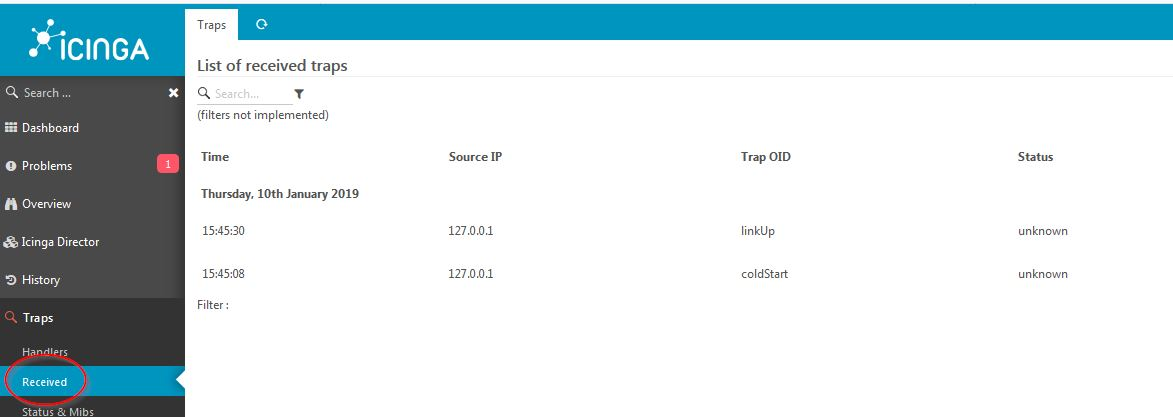
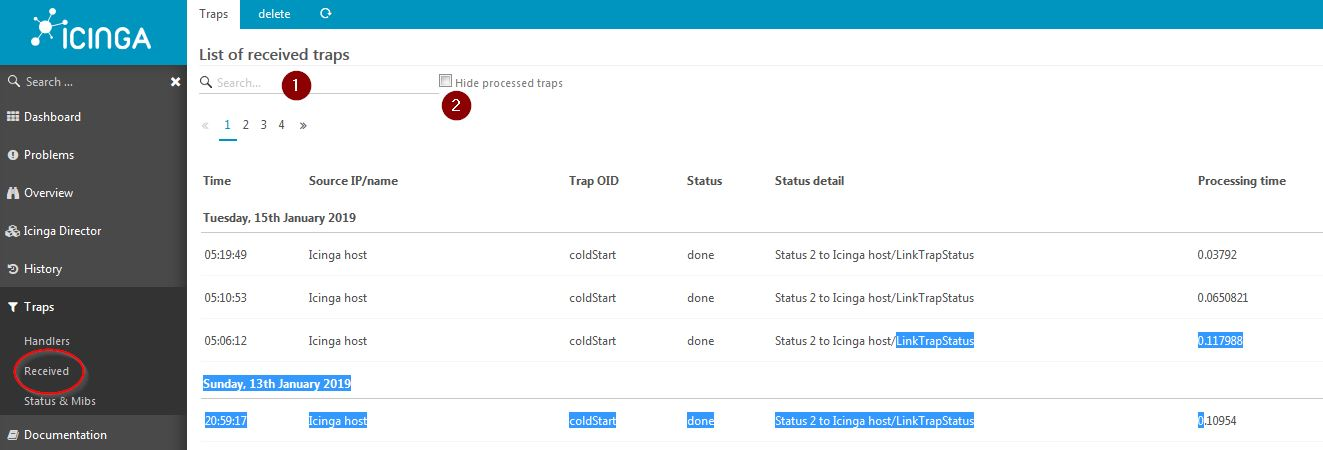
Doc update

diff --git a/docs/02-traps.md b/docs/02-traps.md
@@ -6,10 +6,13 @@ NOTE NOTE NOTE NOTE : PROJECT UNDER DEV : SOME SCREEN CAPTURES CAN CHANGE A LOT 
 A little about traps
 ---------------
 
-TODO.
+Have a look here for ful info : http://www.net-snmp.org/wiki/
 
-Have a look here : http://www.net-snmp.org/wiki/
+Shortly : a trap is send by an equipement to a trap server (here the icinga host), it contains : 
 
+* Authentication : by a community - a word - in v1 & v2, or user/password in v3
+* The trap OID : an OID (ex : .1.3.6.1.2.1.1) which defines the trap
+* Trap objects : a list of OID with their values, so the system will provide additionnal information (ex : interface name).
 
 Sending traps for testing
 ---------------
@@ -19,9 +22,12 @@ In the bin directory you have 3 bash files test_trap_v(1|2|3).sh which will send
 Looking at traps received
 ---------------
 
-Go to traps -> received to have a list of received traps
+Go to Traps -> received (or just Traps) to have a list of received traps
 
 ![trap-1](img/Trap-rule-1.jpg)
+
+1) filter the display : it will show only traps which includes what you typed (will search in IP/OID/status etc..)
+2) Click here to hide processed traps : those who has matched a rule (see Handlers). 
 
 Click on a trap to have details
 
@@ -30,16 +36,11 @@ Columns :
 * Source IP of trap
 * Trap OID (or name if it could be resolved)
 * Status : 
-
-unknown : no rule was found for this trap
-
-done : rule was found and evaluated
-
-error : ...
-
-waiting : trap was received, but no rule was applied for now
-
-
+	* unknown : no rule was found for this trap
+	* done : rule was found and evaluated
+	* error : ...
+	* waiting : trap was received, but no rule was applied for now
+*Processing time : time taken by the script to process trap in seconds.
 
 
 Trap details
@@ -60,26 +61,33 @@ Adding a rule based on a received trap
 	
 The form is divided in three parts
 
-1) host/service and Trap : 
+1) Trap source  
 
 ![add-from-trap-1](img/add-from-trap-1.jpg)
 
 * 1 : Icinga host whose service will be updated
-* 2 : Service of host wich sttus will be updated. It must accept passive checks and active checks disabled (TODO : show template)
-* 3 : MIB / trap name to select trap from (auto filled as trap has been recognised)
-* 4 : trap OID
-* 5 : if active, this button will add ALL objects that can be set with this trap (as descripbed in it's MIB) in the objects definition below.
+* 2 : Service of host wich status will be updated. It must accept passive checks and active checks disabled. Template is available in Status&Mibs.
+* 3 : If you wan't your handler to be applied on a hostgroup intead of a host, click here and select hostgroup and service.
 
-2) Trap objects
+2) Trap definition
 
-This part lists all objects that will be used in the display and rules as $N.
+![add-from-trap-1_1](img/add-from-trap-1_1.jpg)
+
+* 1 : MIB / trap name to select trap from (auto filled as trap has been recognised)
+* 2 : trap OID
+* 3 : if active, this button will add ALL objects that can be set with this trap (as descripbed in it's MIB) in the objects definition below.
+* 4 : Time after which the service will be reverted to OK (you can do this here or in the service template).
+
+3) Trap objects
+
+This part lists all objects that will be used in the display and rules as $N$.
 
 As you selected a trap, the objects sent with the trap are automaticaly added in here
 
 ![add-from-trap-2](img/add-from-trap-2.jpg)
 
 * 1 : enter OID here to manually add bojects
-* 2 : Shortcuts $N that will be used in rules
+* 2 : Shortcuts $N$ that will be used in rules
 * 3 : Value sent by the trap selected earlier
 * 4 : Type of trap as described in MIB
 
@@ -93,7 +101,7 @@ There you will configure :
 
 * 1 : Display
 
-The display string will be sent with status to service. You can use all the $N defined above.
+The display string will be sent with status to service. You can use all the $N$ defined above.
 
 Here, the display will be for example : "Trap linkUP received for 3"
 (if interface index in object is 3).
@@ -102,7 +110,7 @@ Here, the display will be for example : "Trap linkUP received for 3"
 
 Here you define a rule. Actions if rule matches is defined below.
 
-Here the rule "( $5 = 3 ) & ( $3 = 2) " means : 
+Here the rule "( $5$ = 3 ) & ( $3$ = 2) " means : 
 
 If 'ifIndex' is 3 AND ifAdminStatus is 2 THEN rule matches
 
@@ -110,21 +118,21 @@ Rule accepts numbers and strings with these operators : < <= > >= = !=
 
 You can group with parenthesis and logical operators are : | &
 
-To test existence of object, do : ($3)
+To test existence of object, do : ($3$)
 
 space are ignored and comparison operators are evaluated before logical ones.
 
 Examples : 
 
-$5 = 3  &  $3 = 2 : works, same as the example
+$5$ = 3  &  $3$ = 2 : works, same as the example
 
-$5 = 3  &  $3 = 2 | $4 = 1 : works like : ($5 = 3  &  $3 = 2) | $4 = 1 . Better with parenthesis !
+$5$ = 3  &  $3$ = 2 | $4$ = 1 : works like : ($5$ = 3  &  $3$ = 2) | $4$ = 1 . Better with parenthesis !
 
-($5 = "eth0") & ( $3 = 2) : works as expected
+($5$ = "eth0") & ( $3$ = 2) : works as expected
 
-($5 = "eth0") < $3 : ERROR
+($5$ = "eth0") < $3$ : ERROR
 
-* 3 : actions depending on rule matches or not. You can choose any common status or 'nothing' to do nothing'
+* 3 : actions depending on rule matches or not. You can choose any common status or 'nothing' to do nothing and 'ignore' to completly ignore trap (e.g. no database record)
 
 Then click on save to save and activate your rule for next trap.
 

diff --git a/docs/01-install.md b/docs/01-install.md
@@ -70,7 +70,10 @@ Edit the /etc/snmp/snmptrapd file and add :
 traphandle default /opt/rh/rh-php71/root/usr/bin/php /usr/share/icingaweb2/modules/trapdirector/bin/trap_in.php 
 ```
 
-Note : on bottom of configuration page, you will have the php and module directories adapted to your system. If it shows 'php-fpm' instead of php, you are using php-fpm and need to replace with something like bin/php .
+Note : on bottom of configuration page, you will have the php and module directories adapted to your system. If it shows 'php-fpm' instead of php, you are using php-fpm and need to replace /sbin/php-fpm with something like bin/php .
+
+In any case, it must be the php binary of php version > 7. You can check version on command line doing `php -v` 
+
 
 Set up the community (still in snmptrapd.conf) : here with "public" 
 
@@ -129,6 +132,18 @@ systemctl start snmptrapd
 ```
 
 Now all traps received by the system will be redirected to the trapdirector module.
+
+Set up mibs : 
+------------------------
+
+The system mibs should be in `/usr/share/net-snmp/mibs` directory : chenge the path in configuration if needed.
+
+Mib you can upload will be in (default) `/usr/share/icingaweb2/module/trapdirector/mibs` : you must check the directory is writable by the user of the web server.
+For example (as root) : 
+```
+chown apache:apache /usr/share/icingaweb2/module/trapdirector/mibs
+chmod 755 /usr/share/icingaweb2/module/trapdirector/mibs
+```
 
 
 Now have a look at the doc : ![traps](02-traps.md)
